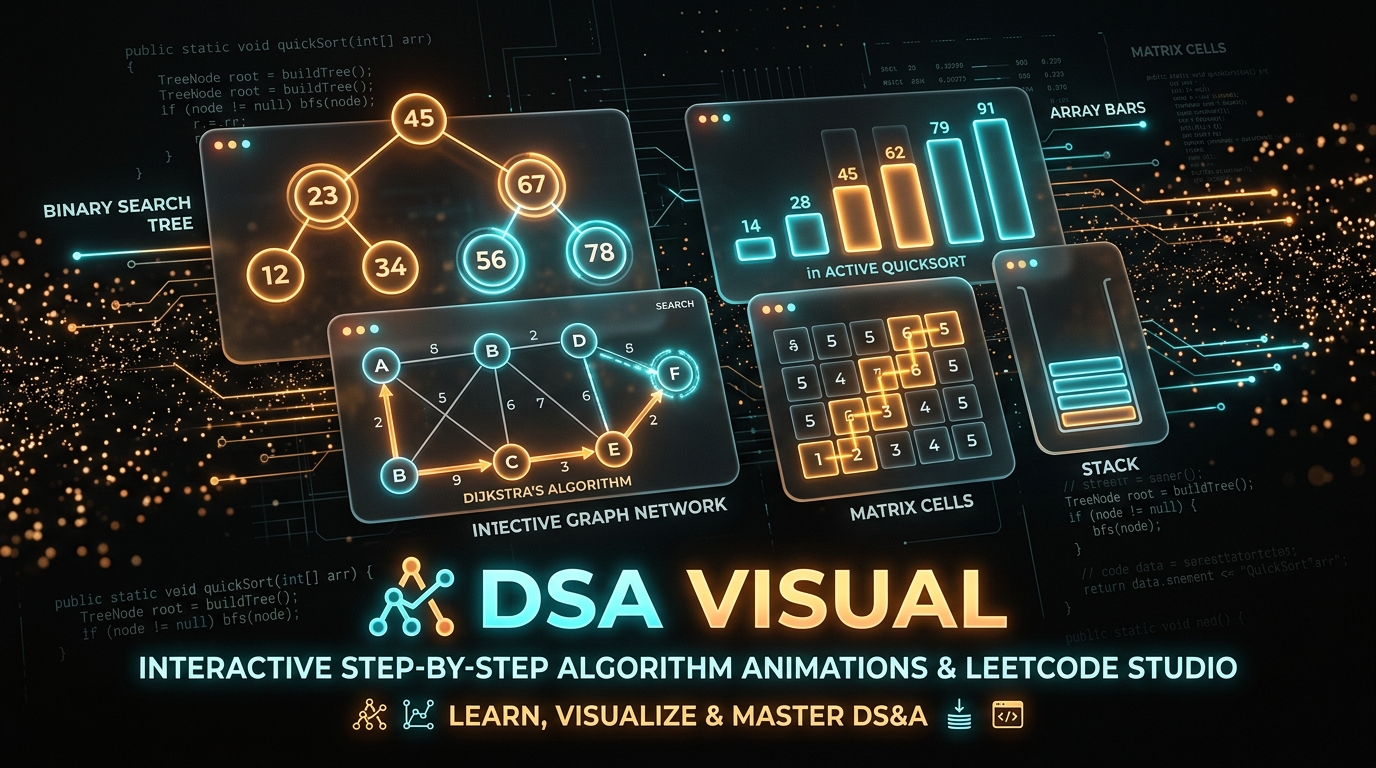
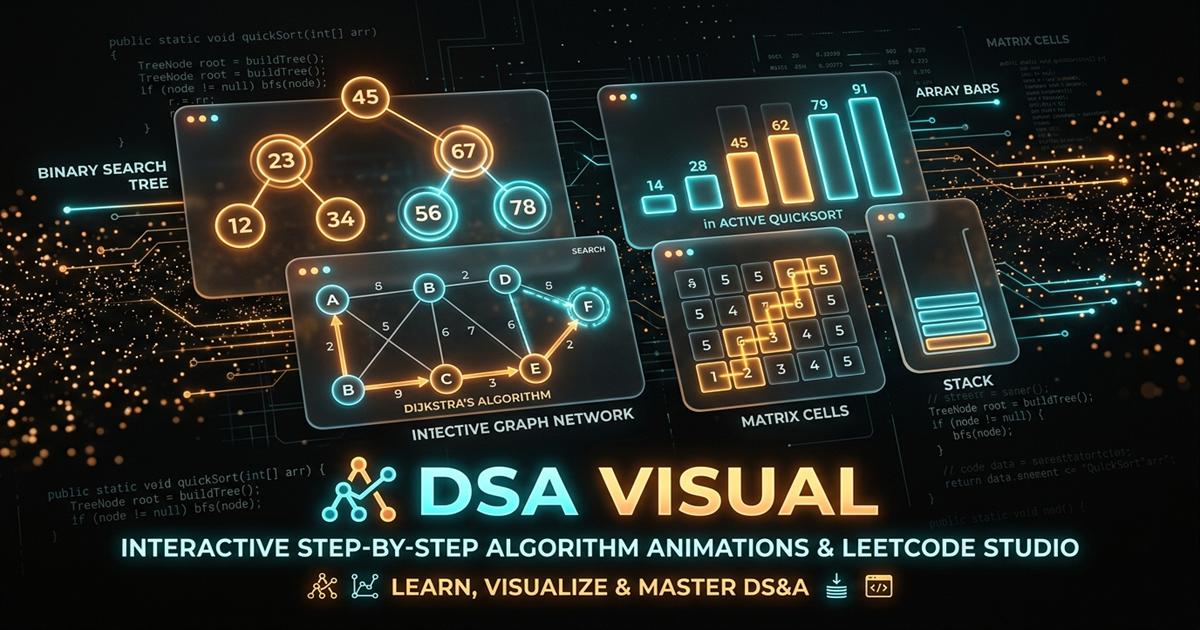
fix(seo): use absolute production domain URLs and optimize OG image size for WhatsApp and social crawlers
- Set absolute URLs (https://dsa-five-blond.vercel.app/og-image.jpg) for og:image, og:image:secure_url, and twitter:image

- Compress and resize og-image.jpg to 1200x630 at 125KB (well below WhatsApp 300KB limit)

- Add og:image:width, og:image:height, og:url, and canonical tags

Changed region(s): [[0.6167, 0.9048, 0.6475, 0.9349]]

diff --git a/index.html b/index.html
@@ -24,28 +24,34 @@
     <link rel="icon" type="image/svg+xml" href="/favicon.svg" />
     <link rel="apple-touch-icon" href="/favicon.svg" />
 
-    <!-- Open Graph / Facebook / LinkedIn -->
+    <!-- Canonical URL -->
+    <link rel="canonical" href="https://dsa-five-blond.vercel.app/" />
+
+    <!-- Open Graph / Facebook / LinkedIn / WhatsApp -->
     <meta property="og:type" content="website" />
+    <meta property="og:url" content="https://dsa-five-blond.vercel.app/" />
     <meta property="og:site_name" content="DSA Visualizer" />
     <meta property="og:title" content="DSA Visualizer — Interactive Step-by-Step Algorithm & LeetCode Studio" />
     <meta
       property="og:description"
       content="Master Data Structures & Algorithms with step-by-step interactive animations, visual pointers, queues, and multi-language solutions."
     />
-    <meta property="og:image" content="/og-image.jpg" />
+    <meta property="og:image" content="https://dsa-five-blond.vercel.app/og-image.jpg" />
+    <meta property="og:image:secure_url" content="https://dsa-five-blond.vercel.app/og-image.jpg" />
     <meta property="og:image:type" content="image/jpeg" />
-    <meta property="og:image:width" content="1280" />
-    <meta property="og:image:height" content="720" />
+    <meta property="og:image:width" content="1200" />
+    <meta property="og:image:height" content="630" />
     <meta property="og:image:alt" content="DSA Visualizer Interactive Algorithm Studio Preview" />
 
     <!-- Twitter / X -->
     <meta name="twitter:card" content="summary_large_image" />
+    <meta name="twitter:url" content="https://dsa-five-blond.vercel.app/" />
     <meta name="twitter:title" content="DSA Visualizer — Interactive Step-by-Step Algorithm & LeetCode Studio" />
     <meta
       name="twitter:description"
       content="Master Data Structures & Algorithms with step-by-step interactive animations, visual pointers, queues, and multi-language solutions."
     />
-    <meta name="twitter:image" content="/og-image.jpg" />
+    <meta name="twitter:image" content="https://dsa-five-blond.vercel.app/og-image.jpg" />
     <meta name="twitter:image:alt" content="DSA Visualizer Interactive Algorithm Studio Preview" />
 
     <!-- Structured Data (JSON-LD) for Rich Google Search Results -->
